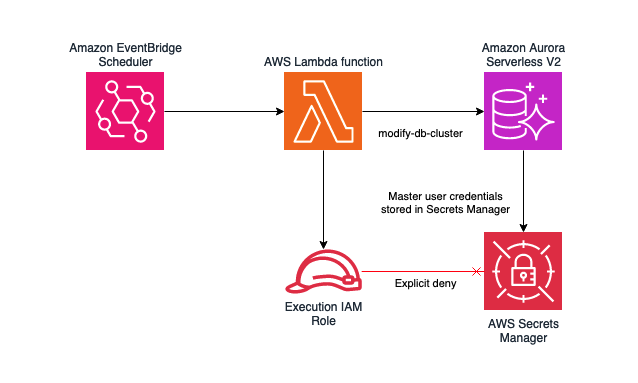
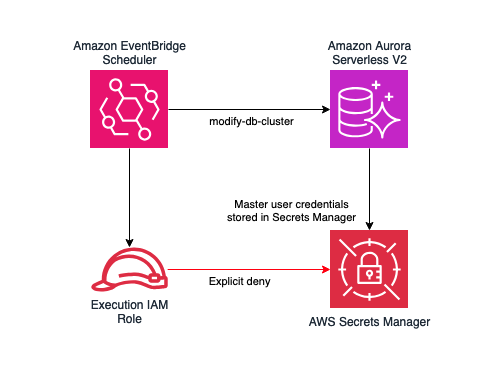
move to using eventbridge universal target

Changed region(s): [[0.0902, 0.0889, 0.9018, 0.9191], [0.1804, 0.6226, 0.3607, 0.8895]]

diff --git a/samples/scheduled-aurora-serverless-scaling/lib/scheduled-autoscaling-amazon-aurora-serverless-stack.ts b/samples/scheduled-aurora-serverless-scaling/lib/scheduled-autoscaling-amazon-aurora-serverless-stack.ts
@@ -1,8 +1,6 @@
 import * as cdk from 'aws-cdk-lib';
-import { Rule, RuleTargetInput, Schedule } from 'aws-cdk-lib/aws-events';
-import { LambdaFunction } from 'aws-cdk-lib/aws-events-targets';
-import { Policy, PolicyStatement, Role, ServicePrincipal } from 'aws-cdk-lib/aws-iam';
-import { NodejsFunction } from 'aws-cdk-lib/aws-lambda-nodejs';
+import { CfnSchedule } from 'aws-cdk-lib/aws-scheduler';
+import { Role, PolicyStatement, ServicePrincipal } from 'aws-cdk-lib/aws-iam';
 import { Construct } from 'constructs';
 
 export class ScheduledAutoscalingAmazonAuroraServerlessStack extends cdk.Stack {
@@ -10,64 +8,60 @@ export class ScheduledAutoscalingAmazonAuroraServerlessStack extends cdk.Stack {
     super(scope, id, props);
 
     const scheduleUp = this.node.tryGetContext('scheduleUp');
-    const desiredCapacityUpMin = this.node.tryGetContext('desiredCapacityUpMin');
-    const desiredCapacityUpMax = this.node.tryGetContext('desiredCapacityUpMax');
+    const desiredCapacityUpMin: number = this.node.tryGetContext('desiredCapacityUpMin');
+    const desiredCapacityUpMax: number = this.node.tryGetContext('desiredCapacityUpMax');
     const scheduleDown = this.node.tryGetContext('scheduleDown');
-    const desiredCapacityDownMin = this.node.tryGetContext('desiredCapacityDownMin');
-    const desiredCapacityDownMax = this.node.tryGetContext('desiredCapacityDownMax');
+    const desiredCapacityDownMin: number = this.node.tryGetContext('desiredCapacityDownMin');
+    const desiredCapacityDownMax: number = this.node.tryGetContext('desiredCapacityDownMax');
     const dbClusterId = this.node.tryGetContext('dbClusterId');
 
-    const scalingFunction = new NodejsFunction(this, 'ScalingFunction', {
-      entry: 'lambda/app.ts',
-      handler: 'lambdaHandler',
-      runtime: cdk.aws_lambda.Runtime.NODEJS_20_X,
-      bundling: {
-        minify: true,
-        externalModules: ['@aws-sdk/client-rds'],
-      },
+    const schedulerRole = new Role(this, 'SchedulerRole', {
+      assumedBy: new ServicePrincipal('scheduler.amazonaws.com')
     });
-    scalingFunction.role?.attachInlinePolicy(new Policy(this, 'ScalingFunctionPolicy', {
-      statements: [new PolicyStatement({
-          actions: [
-            'rds:ModifyDBCluster'
-          ],
-          resources: [
-            `arn:aws:rds:${this.region}:${this.account}:cluster:${dbClusterId}`
-          ]
-        })]
+
+    schedulerRole.addToPolicy(new PolicyStatement({
+      actions: ['rds:ModifyDBCluster'],
+      resources: [`arn:aws:rds:${this.region}:${this.account}:cluster:${dbClusterId}`]
     }));
 
-    const role = new Role(this, 'EBScheduleRole', {
-      assumedBy: new ServicePrincipal('events.amazonaws.com')
-    });
-    scalingFunction.grantInvoke(role);
-
     if (scheduleUp && desiredCapacityUpMin && desiredCapacityUpMax) {
-      const ebScheduleUp = new Rule(this, 'EBScheduleUp', {
-        schedule: Schedule.expression(scheduleUp)
+      new CfnSchedule(this, 'ScaleUpSchedule', {
+        flexibleTimeWindow: {
+          mode: 'OFF'
+        },
+        scheduleExpression: scheduleUp,
+        target: {
+          arn: `arn:aws:scheduler:::aws-sdk:rds:modifyDBCluster`,
+          roleArn: schedulerRole.roleArn,
+          input: `{"DbClusterIdentifier":"${dbClusterId}","ServerlessV2ScalingConfiguration":{"MinCapacity":${desiredCapacityUpMin},"MaxCapacity":${desiredCapacityUpMax}}}`,
+          retryPolicy: {
+            maximumRetryAttempts: 3
+          }
+        },
+        name: `${id}-scale-up`,
+        description: 'Scale up Aurora Serverless cluster during business hours',
+        state: 'ENABLED'
       });
-
-      ebScheduleUp.addTarget(new LambdaFunction(scalingFunction, {
-        event: RuleTargetInput.fromObject({
-          desiredMinCapacity: desiredCapacityUpMin,
-          desiredMaxCapacity: desiredCapacityUpMax,
-          targetDbCluster: dbClusterId
-        })
-      }));
     }
 
     if (scheduleDown && desiredCapacityDownMin && desiredCapacityDownMax) {
-      const ebScheduleDown = new Rule(this, 'EBScheduleDown', {
-        schedule: Schedule.expression(scheduleDown)
+      new CfnSchedule(this, 'ScaleDownSchedule', {
+        flexibleTimeWindow: {
+          mode: 'OFF'
+        },
+        scheduleExpression: scheduleDown,
+        target: {
+          arn: `arn:aws:scheduler:::aws-sdk:rds:modifyDBCluster`,
+          roleArn: schedulerRole.roleArn,
+          input: `{"DbClusterIdentifier":"${dbClusterId}","ServerlessV2ScalingConfiguration":{"MinCapacity":${desiredCapacityDownMin},"MaxCapacity":${desiredCapacityDownMax}}}`,
+          retryPolicy: {
+            maximumRetryAttempts: 3
+          }
+        },
+        name: `${id}-scale-down`,
+        description: 'Scale down Aurora Serverless cluster during non-business hours',
+        state: 'ENABLED'
       });
-
-      ebScheduleDown.addTarget(new LambdaFunction(scalingFunction, {
-        event: RuleTargetInput.fromObject({
-          desiredMinCapacity: desiredCapacityDownMin,
-          desiredMaxCapacity: desiredCapacityDownMax,
-          targetDbCluster: dbClusterId
-        })
-      }));
     }
   }
 }

diff --git a/samples/scheduled-aurora-serverless-scaling/README.md b/samples/scheduled-aurora-serverless-scaling/README.md
@@ -26,9 +26,9 @@ This scaling characteristic starting from 0.5, 8 and 32 ACU and scaling to 128 A
 
 ## Architecture
 
-The scheduled autoscaling sample uses a serverless architecture to schedule and perform the scaling activity. The schedule is managed using Amazon EventBridge. When the cron schedule triggers, this invokves an AWS Lambda function that modifies the database to adjust the min/max ACU to the desired levels. 
+The scheduled autoscaling sample uses a serverless architecture to schedule and perform the scaling activity. The schedule is managed using Amazon EventBridge. When the cron schedule triggers, this invokes the RDS modify-db-cluster API using the EventBridg universal target. This modifies the database to adjust the min/max ACU to the desired levels. 
 
-**NOTE:** It is important that you use the Secrets Manager integration for managing the RDS master user when using this solution. The `modify-db-cluster` API command used to update the ACU also allows for changing the master user password. To prevent this, the secret should be stored in Secrets Manager and the Lambda function execution role should not have access to this secret. 
+**NOTE:** It is important that you use the Secrets Manager integration for managing the RDS master user when using this solution. The `modify-db-cluster` API command used to update the ACU also allows for changing the master user password. To prevent this, the secret should be stored in Secrets Manager and the EventBridge schedule execution role should not have access to this secret. 
 
 ![arch diagram](./images/architecture.png)
 
